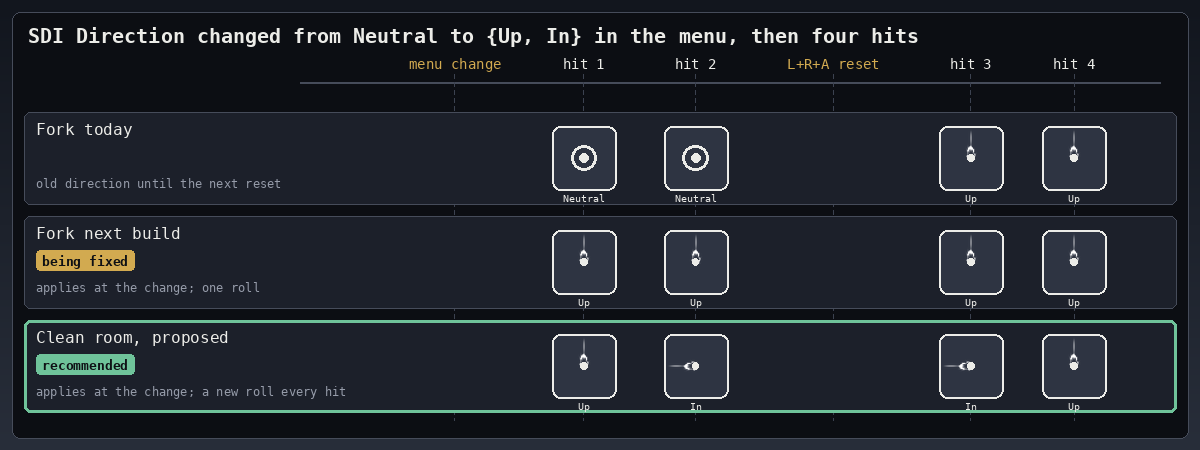
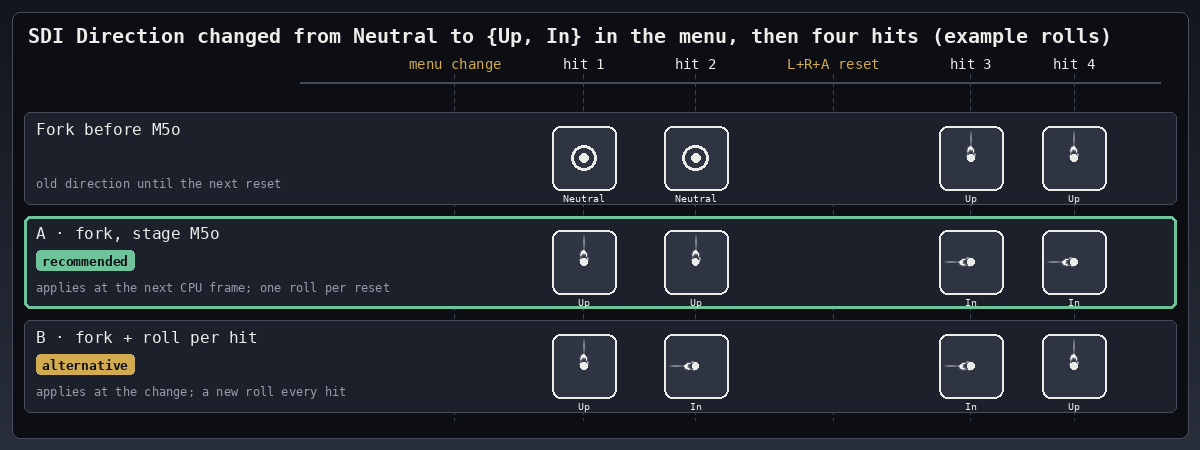
Decisions page: Q18 follows the fork's M5o apply rule, new B11 (ledge options on menu change) (docs only)
- Q18: the fork (stage M5o) now applies a changed SDI Direction / Shield Tilt at the next CPU frame;
  the open question becomes "follow the fork?" (recommended: A). The per-hit SDI roll stays as option B.
  Picture 18 re-labelled (lanes, green outline, example rolls); one evidence line added.
- B11 (new, fork and clean room): ledge options changed while the CPU is already on the ledge are ignored
  until its next grab (event-scoped rolls survive). Options: re-roll on menu change like SDI
  (recommended) or apply on the next grab (current). New picture B11-ledge-change.png.
- tools/render_decisions.py: d_applychange edited, d_ledgechange added.
- TRAININGROOMS-HANDOFF.md: dated entry.

diff --git a/tools/render_decisions.py b/tools/render_decisions.py
@@ -478,7 +478,7 @@ def d_applychange():
     x0, x1 = 300, WIDE - 40
     ev = {"change": 0.18, "hit1": 0.33, "hit2": 0.46, "reset": 0.62, "hit3": 0.78, "hit4": 0.9}
     X = {k: x0 + v * (x1 - x0) for k, v in ev.items()}
-    c.text(28, 24, "SDI Direction changed from Neutral to {Up, In} in the menu, then four hits", "h", FG)
+    c.text(28, 24, "SDI Direction changed from Neutral to {Up, In} in the menu, then four hits (example rolls)", "h", FG)
     ty = 68
     c.line([(x0, ty + 14), (x1, ty + 14)], LINE, 2)
     for k, lab in (("change", "menu change"), ("hit1", "hit 1"), ("hit2", "hit 2"), ("reset", "L+R+A reset"),
@@ -486,9 +486,11 @@ def d_applychange():
         col = ADV if k in ("change", "reset") else FG
         c.line([(X[k], ty + 6), (X[k], 420)], (60, 66, 80), 1, dash=(4, 4))
         c.text(X[k], ty - 12, lab, "xs", col, "m")
-    lanes = [("Fork today", None, ["Neutral", "Neutral", "Up", "Up"], "old direction until the next reset"),
-             ("Fork next build", "being fixed", ["Up", "Up", "Up", "Up"], "applies at the change; one roll"),
-             ("Clean room, proposed", "recommended", ["Up", "In", "In", "Up"], "applies at the change; a new roll every hit")]
+    lanes = [("Fork before M5o", None, ["Neutral", "Neutral", "Up", "Up"], "old direction until the next reset"),
+             ("A · fork, stage M5o", "recommended", ["Up", "Up", "In", "In"],
+              "applies at the next CPU frame; one roll per reset"),
+             ("B · fork + roll per hit", "alternative", ["Up", "In", "In", "Up"],
+              "applies at the change; a new roll every hit")]
     y = 120
     for name, badge, picks, note in lanes:
         c.rect(24, y - 8, WIDE - 24, y + 84, fill=TILE, outline=OURS if badge == "recommended" else LINE,
@@ -781,10 +783,50 @@ def d_readme():
     c.save("B10-readme-media")
 
 
+def d_ledgechange():
+    c = DCanvas(WIDE, 380)
+    c.rect(12, 12, WIDE - 12, 368, fill=PANEL, outline=LINE, radius=8)
+    x0, x1 = 300, WIDE - 40
+    ev = {"grab": 0.04, "change": 0.30, "leave": 0.66, "regrab": 0.82}
+    X = {k: x0 + v * (x1 - x0) for k, v in ev.items()}
+    c.text(28, 24, "Ledge Options changed from Wait to Jump while the CPU is already hanging on the ledge", "h", FG)
+    tx = tag(c, 28, 52, "applies to the fork", ADV)
+    tag(c, tx + 8, 52, "and the clean room", ADV)
+    ty = 112
+    c.line([(x0, ty + 14), (x1, ty + 14)], LINE, 2)
+    for k, lab in (("grab", "CPU grabs the ledge"), ("change", "menu change"), ("regrab", "CPU grabs again")):
+        col = ADV if k == "change" else FG
+        c.line([(X[k], ty + 6), (X[k], 350)], (60, 66, 80), 1, dash=(4, 4))
+        c.text(X[k], ty - 12, lab, "xs", col, "m")
+    jump_end = X["change"] + 215          # lane A: the CPU jumps off during the same hang
+    lanes = [("A · re-roll on menu change", "recommended", "like SDI Direction", jump_end,
+              [(X["grab"], X["change"], "hangs · holds Wait", LINE),
+               (X["change"], jump_end, "re-rolled: Jump", OURS),
+               (X["regrab"], x1, "rolls: Jump", LINE)],
+              "the CPU acts on the new option during this hang", MUTED),
+             ("B · apply on the next grab", "current", "the held roll stays", X["leave"],
+              [(X["grab"], X["leave"], "holds Wait · the new setting is ignored", BAD),
+               (X["regrab"], x1, "rolls: Jump", LINE)],
+              "nothing changes until the CPU leaves the ledge and grabs again", BAD)]
+    y = 150
+    for name, badge, sub, off_from, segs, result, rcol in lanes:
+        rec = badge == "recommended"
+        c.rect(24, y - 8, WIDE - 24, y + 92, fill=TILE, outline=OURS if rec else LINE, width=3 if rec else 1, radius=6)
+        c.text(36, y, name, "s", FG)
+        tag(c, 36, y + 26, badge, OURS if rec else ADV)
+        c.text(36, y + 56, sub, "xxs", MUTED)
+        for xa, xb, lab, col in segs:
+            box(c, xa, y + 4, xb, y + 48, [lab], col=col, fill=TILE_HI, font="xs")
+        c.text((off_from + X["regrab"]) / 2, y + 20, "off the ledge", "xxs", MUTED, "m")
+        c.text(x0 + 12, y + 64, result, "xxs", rcol)
+        y += 112
+    c.save("B11-ledge-change")
+
+
 ALL = [d_pages, d_dropdown, d_delays, d_subscreens, d_firstpage, d_itemonload, d_replaycapture, d_preloadsamples,
        d_shortcuts, d_helptext, d_p1fallback, d_weights, d_paging, d_miirows, d_portraits, d_dichips, d_applychange,
        d_import, d_corrupt, d_name, d_panic, d_layoutmods, d_p1ai, d_playback, d_perfighter, d_inout, d_fixes,
-       d_devcode, d_readme]
+       d_devcode, d_readme, d_ledgechange]
 
 
 def main():

diff --git a/docs/DECISIONS.md b/docs/DECISIONS.md
@@ -24,7 +24,7 @@ decision. In each picture the recommended option has a **green outline**. The im
 | Q15 | Mii rows | list with the bust where one exists |
 | Q16 | Fighter portraits and mods | read at run time, like stages |
 | Q17 | Which chips show the game's DI / SDI visual | DI and SDI only |
-| Q18 | When a CPU setting change takes effect | at the change, plus a new SDI roll every hit |
+| Q18 | When a CPU setting change takes effect | follow the fork: apply at the next CPU frame |
 | S1 | Five import details | rename to `settings.json`, import both INIs, the rest as proposed |
 | S2 | Corrupt settings file | keep a copy, load field by field |
 | B1 | Plugin name | `training_rooms` |
@@ -37,6 +37,7 @@ decision. In each picture the recommended option has a **green outline**. The im
 | B8 | Behaviour changes from the fork | accept the batch |
 | B9 | Upstream developer-only code | drop it from the shipped build |
 | B10 | README media | reuse the GIFs that show no menu |
+| B11 | Ledge options changed while the CPU is already on the ledge (fork and clean room) | re-roll on menu change, like SDI |
 
 ## Menu
 
@@ -181,18 +182,23 @@ chip it would suggest something those options do not do. Cost: none; this is how
 
 ### Q18 · When a CPU setting change takes effect
 
-**The fork:** a changed SDI Direction applies only at the next Training reset, and the menu does not say so.
-This is being fixed in the fork's next build, which applies the change at once. **Clean room:** should it
-follow the same rule?
-Options: (A) the same as the fork's fix: apply at the change, one roll; (B) apply at the change and roll a
-new SDI direction every hitlag episode (`SPEC-cpu-02` questions 1 and 9); (C) keep reset-only and label the
-row "applies on next reset".
-**Recommendation: B.** With two or more directions selected, every hit then varies, and that is what a
-weighted pick is for. Upstream's own source marks the roll-once behaviour as a bug. Shield Tilt and the other
-per-reset rolls follow the same rule. Cost: one roll per hitlag episode; parity with the fork's fix is lost
-only when several directions are selected.
+**The fork (stage M5o):** a changed SDI Direction or Shield Tilt now applies at the next CPU frame, with a
+new weighted roll; DI was already read live at each hit. (Before M5o, SDI Direction applied only at the next
+Training reset, and the menu did not say so.) **Clean room:** should it follow the fork?
+Options: (A) follow the fork: apply at the next CPU frame, one roll that holds until the next reset or the
+next change of that row; (B) apply the same way and also roll a new SDI direction every hitlag episode
+(`SPEC-cpu-02` questions 1 and 9); (C) keep reset-only and label the row "applies on next reset".
+**Recommendation: A, follow the fork.** It is built and was checked in Eden (the SDI Up → In change, and the
+Shield Tilt change, applied with no reset). The menu then means the same in both plugins, and Shield Tilt and
+the other per-reset rolls follow the same rule. Cost: with two or more directions selected, SDI keeps one
+direction until the next reset or change, which upstream's own source marks as a bug. B would vary it every
+hit at the price of one roll per hitlag episode and a parity difference from the fork; it stays open if you
+want it.
 
 ![Q18 apply on change](decisions/18-apply-on-change.png)
+
+Fork evidence: `artifacts/…/parked-reuse175/refactor/c1162/di-sdi-apply/RESULT.md` (Eden rows R-APPLY1–3
+passed on the patch's own builds; `PATCH.patch` is in the same folder); the picture's rolls are examples.
 
 ## Files
 
@@ -317,6 +323,23 @@ Cost: the README has no menu pictures until then.
 
 ![B10 README media](decisions/B10-readme-media.png)
 
+### B11 · Ledge options changed while the CPU is already on the ledge (`SPEC-cpu-03`)
+
+**Applies to both the fork (unchanged there) and the clean room.** Found while checking Q18: a CPU rolls its
+ledge option once per hang and holds it until it leaves the ledge; the held roll also survives while the
+Ledge Options row is empty. A CPU already parked on the ledge (for example with Wait) therefore ignores a
+newly selected option until it leaves the ledge and grabs again. The throw option behaves the same way for a CPU already
+holding someone. The fork's SDI and Shield Tilt rolls no longer have this problem (Q18).
+Options: (a) re-roll the ledge options (and the throw options) when the menu changes them, like SDI
+Direction: the CPU takes the new option during the same hang; (b) apply on the next ledge grab, which is
+what the fork does today and what `SPEC-cpu-03` currently says.
+**Recommendation: (a).** The menu then does what it says without a second hang, and it follows the same
+rule as Q18. Cost: one more roll cleared on a menu change; a CPU already hanging can act differently the
+moment the row changes; the fork keeps (b) until it gets the same change. Source: the fork's
+`c1162/di-sdi-apply/PROGRESS.md`, "For the primary" item 2.
+
+![B11 ledge change](decisions/B11-ledge-change.png)
+
 ## Already answered (not repeated above)
 
 | Item | Answer | Where |
@@ -337,4 +360,4 @@ Cost: the README has no menu pictures until then.
 
 The remaining *Open questions* in `specs/` are technical: site guards, hook placement, measurements, RNG
 source, cost-only changes and Eden rows to run. Each has a written recommendation that stands unless the
-operator objects; they are not repeated here. The operator-facing ones are pulled into Q18 and S1–B10 above.
+operator objects; they are not repeated here. The operator-facing ones are pulled into Q18 and S1–B11 above.

diff --git a/TRAININGROOMS-HANDOFF.md b/TRAININGROOMS-HANDOFF.md
@@ -2,6 +2,27 @@
 
 Updated 2026-11-01 (after the first push) by the lead (Claude agent `aa0f7d3da07bfb85c`, Fable 5.1 xhigh, under primary session `63392ddd-6c77-4f46-9cc3-d9fcd0d16793`).
 
+## Decisions page refresh (Q18, new B11) — 2026-11-01
+
+- Worker: Claude session `c0296db6-c2d5-4ad1-adec-70d4f39242d8` under primary `b81ec740`. Model gate
+  from its own transcript: `claude-sonnet-5-5` / `high` (66/66 assistant records at the check). No
+  watcher (single bounded docs turn); no Eden, no build.
+- **Q18** now records the fork's answer: stage M5o applies a changed SDI Direction / Shield Tilt at the
+  next CPU frame (DI was already read live per hit; evidence `…/refactor/c1162/di-sdi-apply/RESULT.md`,
+  `PATCH.patch`). The open question for the clean room is *follow the fork?* Recommendation is now
+  **A, follow the fork**; the per-hit SDI roll is kept as option B (it was the recommendation before;
+  `SPEC-cpu-02` question 9, `MENU-DRAFT.md` question 18 and `docs/MENU-PROPOSAL.md` v9 still describe
+  the pre-M5o fork and were not edited). Picture 18 keeps the timeline; lane labels, the green outline
+  and the example rolls changed; one evidence line added under it.
+- **B11 (new):** ledge options changed while the CPU is already on the ledge (W11 finding, fork
+  unchanged; `SPEC-cpu-03` currently says changes apply on the next grab). Options: (a) re-roll on menu
+  change like SDI (recommended), (b) next ledge grab (current). Marked as relevant to both the fork and
+  the clean room. Picture `B11-ledge-change.png` (menu change → CPU on ledge → each option).
+- `tools/render_decisions.py`: `d_applychange` edited, `d_ledgechange` added; 30 decisions, 30
+  pictures. Changed PNGs 18 and B11 were both viewed; all other PNGs are byte-identical.
+- Next: the operator answers `docs/DECISIONS.md`; fold Q18 / B11 into `MENU-DRAFT.md` §4 and the
+  specs (`SPEC-cpu-02` Q9, `SPEC-cpu-03` §settings change) once decided.
+
 ## Illustrated decisions page — 2026-11-01
 
 - Worker: Claude session `62132d68-754d-4266-9bfe-9759abe5e159` under primary `b81ec740`.
